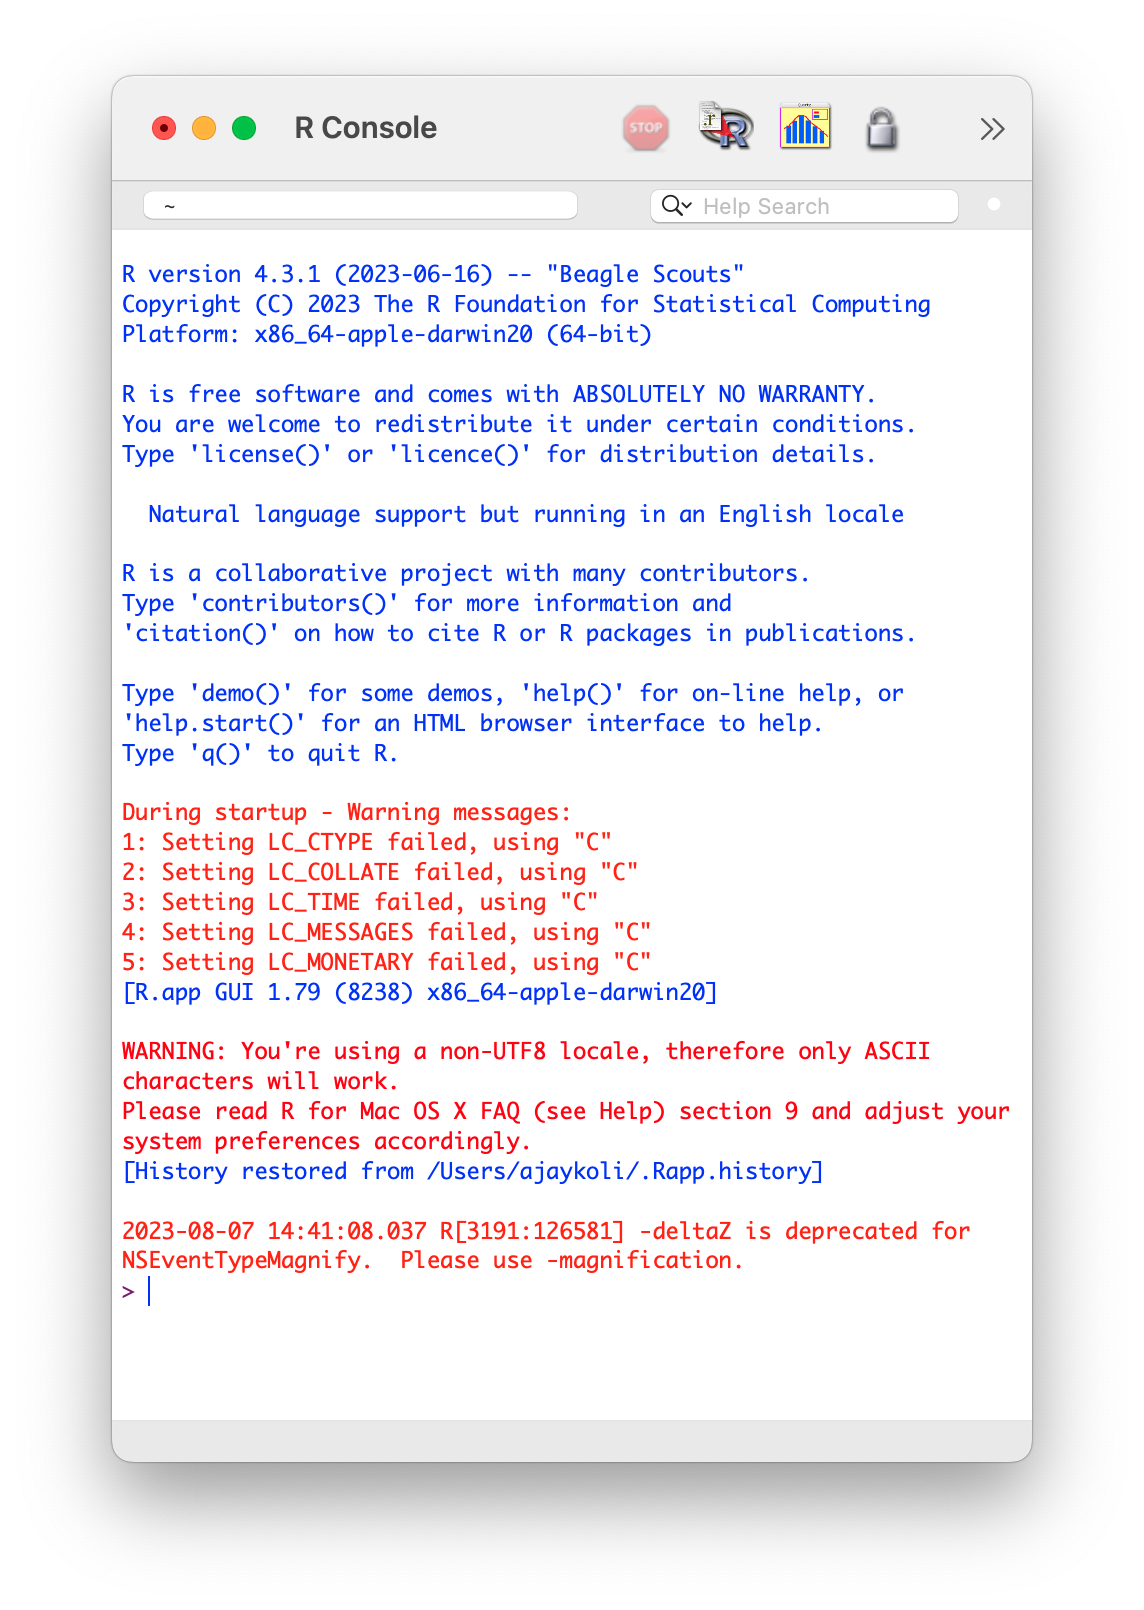
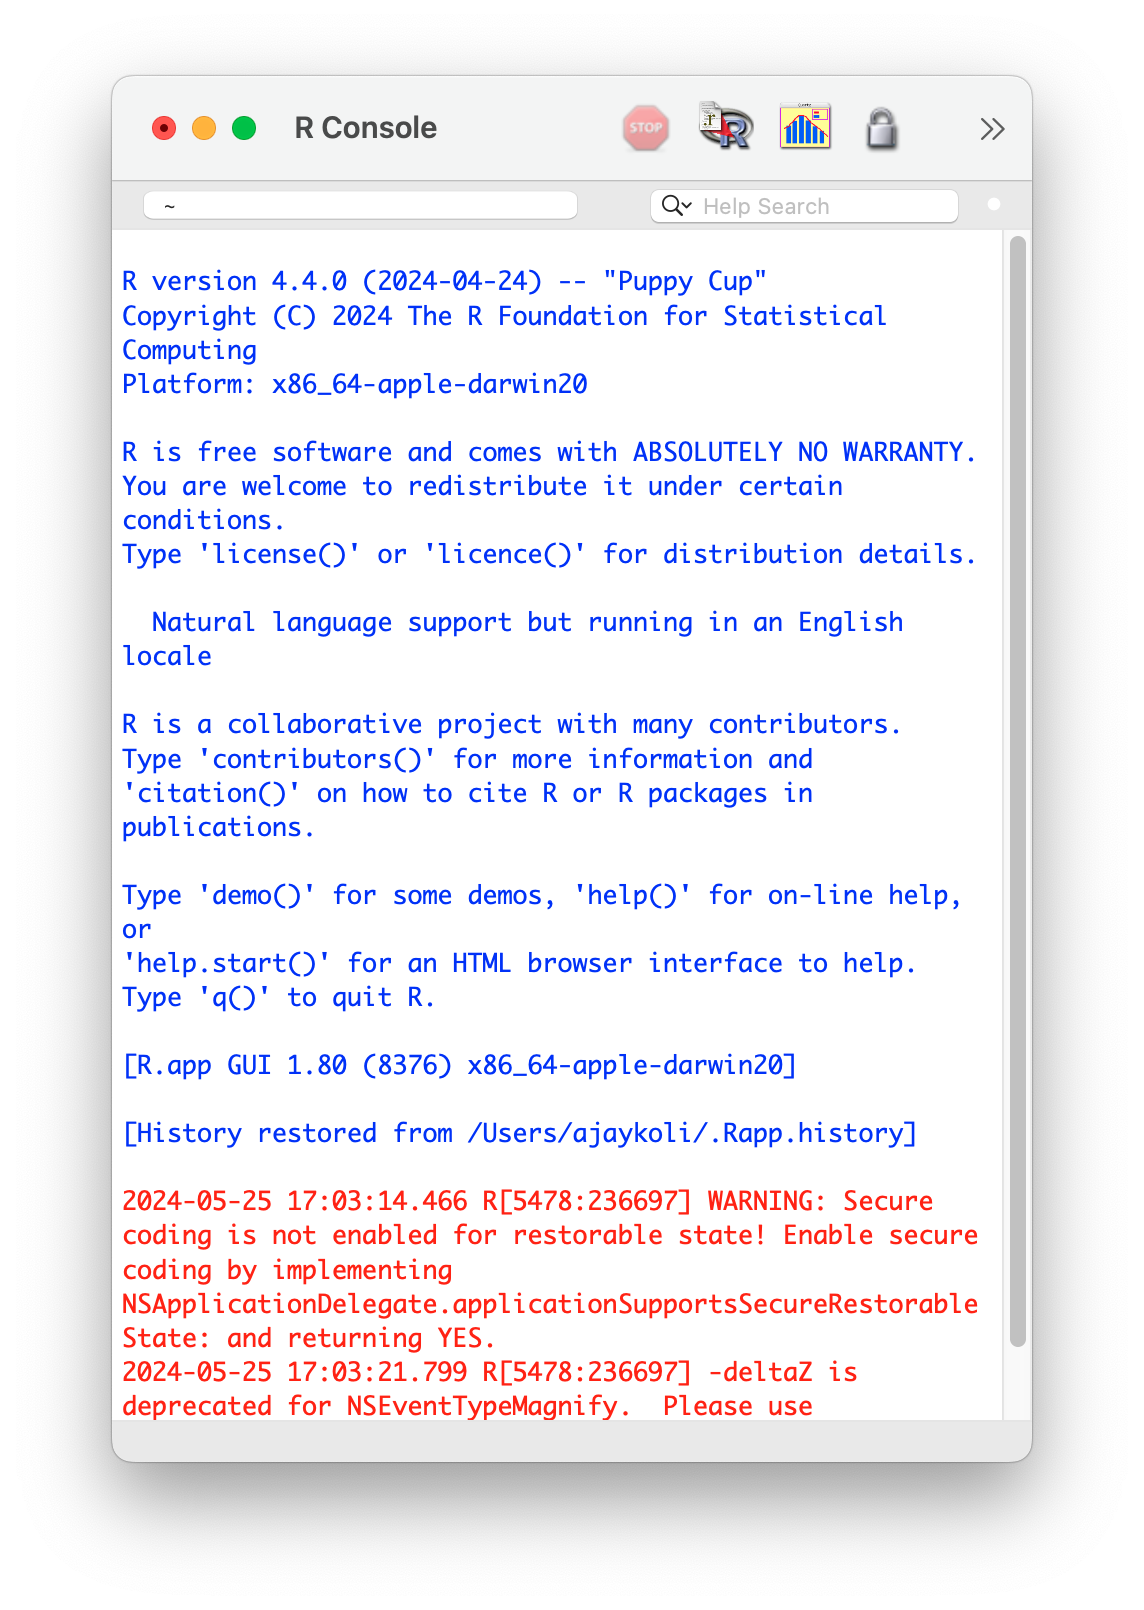
gju workshop

diff --git a/index.html b/index.html
@@ -12,7 +12,7 @@
 <link href="index_files/libs/quarto-contrib/fontawesome6-0.1.0/latex-fontsize.css" rel="stylesheet"><meta http-equiv="Content-Type" content="text/html; charset=UTF-8">
 <meta charset="utf-8">
 <meta name="generator" content="quarto-1.4.444">
-<title>SRM Slides</title>
+<title>GJU Slides</title>
 <meta name="apple-mobile-web-app-capable" content="yes">
 <meta name="apple-mobile-web-app-status-bar-style" content="black-translucent">
 <meta name="viewport" content="width=device-width, initial-scale=1.0, maximum-scale=1.0, user-scalable=no, minimal-ui">
@@ -393,7 +393,13 @@
 
 
 <section><section id="for-beginners" class="title-slide slide level1 center" data-background-image="images/title-front.jpg" data-background-size="cover"><h1><span class="r-fit-text right navy-blue"><i class="fa-brands fa-r-project fa-large" aria-label="r-project"></i> FOR<br>BEGINNERS</span></h1>
-<p><span class="r-fit-text">Dr.&nbsp;Ajay Kumar Koli, PhD <span class="math inline">\(\cdot\)</span> SRM University <span class="math inline">\(\cdot\)</span> 2 May 2024</span></p>
+<div class="columns center">
+<div class="column" style="width:45%;">
+
+</div><div class="column" style="width:55%;">
+<p><span class="r-fit-text right">Speaker: Dr.&nbsp;Ajay Kumar Koli, PhD | 28 May 2024.<br>Venue: The Department of Food Technology<br>Guru Jambheshwar University Science &amp; Technology, Hisar.</span></p>
+</div>
+</div>
 </section><section id="section" class="slide level2"><h2></h2>
 <p><span class="theme-cursive r-fit-text">Hello Everyone!!</span></p>
 <div class="columns">
@@ -403,7 +409,7 @@
 <p><br></p>
 <p><i class="fa-solid fa-circle-user" aria-label="circle-user"></i> <a href="https://koliajay.netlify.app/">Dr.&nbsp;Ajay Kumar Koli</a></p>
 <p><i class="fa-solid fa-award" aria-label="award"></i> Founder &amp; Executive Director</p>
-<p><i class="fa-solid fa-play" aria-label="play"></i> <a href="https://saraedu.netlify.app/">SARA Institute of Data Science</a></p>
+<p><i class="fa-solid fa-play" aria-label="play"></i> <a href="https://sara-edu.netlify.app/">SARA Institute of Data Science</a></p>
 <p><i class="fa-brands fa-twitter" aria-label="twitter"></i> <a href="https://twitter.com/sara_institute"><span class="citation" data-cites="sara_institute">@sara_institute</span></a></p>
 <p><i class="fa-brands fa-github" aria-label="github"></i> <a href="https://github.com/sara-edu/workshop-r-mdu.github.io">Slide source code</a></p>
 <a class="github-button" href="https://github.com/sara-edu/slides-r-course" data-icon="octicon-star" data-size="large" data-show-count="true" aria-label="Star this course on Github">Star This Course on Github</a><script async="" defer="" src="https://buttons.github.io/buttons.js"></script>
@@ -414,13 +420,13 @@
 <blockquote>
 <p>To share reasons with you (and hopefully convince you) why you should learn data science tools like R, python, GitHub, quarto etc.</p>
 </blockquote>
-</section><section id="when-we-work" class="slide level2 center"><h2>When we work</h2>
+</section><section id="section-1" class="slide level2 center"><h2></h2>
 
-<img data-src="images/researcher.jpg" class="quarto-figure-center r-stretch"><p><span class="r-fit-text">We <span class="theme-red">think</span> we look like this but …</span></p>
-</section><section id="while-working" class="slide level2 center"><h2>While working</h2>
-<p><span class="r-fit-text">Our <span class="theme-red">actual</span> look.</span></p>
+<img data-src="images/researcher.jpg" class="quarto-figure-center r-stretch"><p><span class="r-fit-text">Work, we <span class="theme-red">think.</span></span></p>
+</section><section id="section-2" class="slide level2 center"><h2></h2>
 
-<img data-src="images/researcher-sad.webp" class="quarto-figure-center r-stretch"></section><section id="work-flowchart" class="slide level2"><h2>🤯 Work Flowchart</h2>
+<img data-src="images/researcher-sad.webp" class="quarto-figure-center r-stretch"><p><span class="r-fit-text">Work, <span class="theme-red">actually.</span></span></p>
+</section><section id="work-flowchart" class="slide level2"><h2>🤯 Work Flowchart</h2>
 <div class="columns center">
 <div class="column" style="width:25%;">
 <p>MS Word</p>
@@ -442,18 +448,6 @@
 <li><p>Reference management</p></li>
 </ul>
 </div>
-</div>
-</div>
-</section><section id="work-influencer" class="slide level2"><h2>Work Influencer</h2>
-<p><br></p>
-<div class="columns">
-<div class="column" style="width:50%;">
-<p><img data-src="https://media2.giphy.com/media/uudzUtVcsLAoo/giphy.gif?cid=ecf05e47fkaog688v6ft2g7rjkhz2oficp1uf3puupiag8ox&amp;ep=v1_gifs_search&amp;rid=giphy.gif&amp;ct=g" style="width:100.0%"></p>
-</div><div class="column" style="width:50%;">
-<p><br></p>
-<p><span class="r-fit-text">👀 Focus on Content.</span></p>
-<p><br></p>
-<p><span class="r-fit-text">💅 Set Yourself Apart.</span></p>
 </div>
 </div>
 </section><section id="data-science" class="slide level2"><h2>Data Science</h2>
@@ -506,7 +500,7 @@
 
 <aside><div>
 <p><span class="small">Background image by <a href="https://unsplash.com/@kolamdigital">Andy Hermawan</a></span></p>
-</div></aside></section><section><section id="section-1" class="title-slide slide level1 inverse center" data-background-image="images/exploder.gif" data-background-position="center" data-background-size="contain"><h1></h1>
+</div></aside></section><section><section id="section-3" class="title-slide slide level1 inverse center" data-background-image="images/exploder.gif" data-background-position="center" data-background-size="contain"><h1></h1>
 <p><br><br><br><br><br><br><br><br><br><br><br><br><br></p>
 
 <aside><div>
@@ -548,8 +542,8 @@
 <div class="column" style="width:50%;">
 <p><br></p>
 <ul>
-<li class="fragment"><p>R version 4.3.1 (2023-06-16)</p></li>
-<li class="fragment"><p>R name “Beagle Scouts”</p></li>
+<li class="fragment"><p>R version 4.4.0 (2024-04-24)</p></li>
+<li class="fragment"><p>R name “Puppy Cup”</p></li>
 <li class="fragment"><p>R licence “ABSOLUTELY NO WARRANTY”</p></li>
 <li class="fragment"><p>R prompt <code>&gt;|</code></p></li>
 </ul>
@@ -573,7 +567,7 @@
 
 <aside><div>
 <p><span class="small"><a href="https://www.r-bloggers.com/2017/04/using-r-dont-save-your-workspace/">Source: R Bloggers</a></span></p>
-</div></aside></section></section><section><section id="section-2" class="title-slide slide level1 inverse center"><h1></h1>
+</div></aside></section></section><section><section id="section-4" class="title-slide slide level1 inverse center"><h1></h1>
 <p><span class="r-fit-text">OPERATORS</span></p>
 </section><section id="operators" class="slide level2"><h2>Operators</h2>
 <blockquote>
@@ -863,10 +857,10 @@
 <li><p>work efficiently with my different projects and save, share and track them.</p></li>
 </ul>
 </div>
-</section><section id="section-3" class="slide level2 center" data-background-color="#000000" data-transition="zoom" data-transition-speed="slow"><h2></h2>
+</section><section id="section-5" class="slide level2 center" data-background-color="#000000" data-transition="zoom" data-transition-speed="slow"><h2></h2>
 <p><span class="r-fit-text">🔥 WE NEED A SUPERHERO 🔥</span></p>
 
-<img data-src="https://media3.giphy.com/media/o6FWop1Gbuyly/giphy.gif?cid=ecf05e474i92dhzes35zr0jtervmdixne1moeehvvtnntmm8&amp;ep=v1_gifs_related&amp;rid=giphy.gif&amp;ct=g" class="quarto-figure-center r-stretch"></section></section><section><section id="section-4" class="title-slide slide level1 inverse center"><h1></h1>
+<img data-src="https://media3.giphy.com/media/o6FWop1Gbuyly/giphy.gif?cid=ecf05e474i92dhzes35zr0jtervmdixne1moeehvvtnntmm8&amp;ep=v1_gifs_related&amp;rid=giphy.gif&amp;ct=g" class="quarto-figure-center r-stretch"></section></section><section><section id="section-6" class="title-slide slide level1 inverse center"><h1></h1>
 <p><img data-src="images/logo-rstd.png" height="150"></p>
 <p><span class="r-fit-text"><span class="rainbow-orange">S</span> <span class="rainbow-yellow">T</span> <span class="rainbow-green">U</span> <span class="rainbow-indigo">D</span> <span class="rainbow-red">I</span> <span class="rainbow-purple">O</span></span></p>
 </section><section id="posit-earlier-rstudio" class="slide level2"><h2>posit, earlier RStudio</h2>
@@ -910,7 +904,7 @@
 <p><span class="theme-blue"><i class="fa-solid fa-car fa-7x" aria-label="car"></i></span></p>
 </div>
 </div>
-</section></section><section><section id="section-5" class="title-slide slide level1 inverse center"><h1></h1>
+</section></section><section><section id="section-7" class="title-slide slide level1 inverse center"><h1></h1>
 
 <img data-src="images/project-logo.png" class="r-stretch"><p><span class="r-fit-text">PROJECT</span></p>
 </section><section id="open-rstudio" class="slide level2 center"><h2>Open RStudio</h2>
@@ -937,7 +931,7 @@
 
 <aside><div>
 <p><span class="small">Source: <a href="https://support.rstudio.com/hc/en-us/articles/200526207-Using-Projects">RStudio</a> &amp; Artwork by <a href="https://www.allisonhorst.com/">Allison Horst</a></span></p>
-</div></aside></section><section id="section-6" class="slide level2" data-background-color="#000"><h2></h2>
+</div></aside></section><section id="section-8" class="slide level2" data-background-color="#000"><h2></h2>
 <p><span class="r-fit-text center">⛷ Create <br> RStudio Project <br> in 4 Steps ⛷</span></p>
 </section><section id="create-rstudio-project" class="slide level2 center"><h2>Create RStudio Project</h2>
 
@@ -961,7 +955,7 @@
 
 <img data-src="images/rstd_proj_path1.png" class="r-stretch"></section><section id="rstudio-project" class="slide level2 center"><h2>RStudio Project</h2>
 
-<img data-src="images/rstd_proj_path2.png" class="r-stretch"></section></section><section><section id="section-7" class="title-slide slide level1 inverse center"><h1></h1>
+<img data-src="images/rstd_proj_path2.png" class="r-stretch"></section></section><section><section id="section-9" class="title-slide slide level1 inverse center"><h1></h1>
 
 <img data-src="images/code_hero.gif" class="r-stretch"><div class="{aside}">
 <p><span class="small"><span class="small">Artwork by <a href="https://allisonhorst.com/">Alision Horst</a></span></span></p>
@@ -1007,7 +1001,7 @@
 
 <aside><div>
 <p><span class="small">Source: <a href="https://bookdown.org/marius_mather/Rad/tips-for-effective-r-programming.html">Marius Mather</a> also <a href="https://tomaztsql.wordpress.com/2023/01/31/tips-for-organising-your-r-code/">Tomaž Kaštrun</a></span></p>
-</div></aside></section></section><section><section id="section-8" class="title-slide slide level1 inverse center"><h1></h1>
+</div></aside></section></section><section><section id="section-10" class="title-slide slide level1 inverse center"><h1></h1>
 
 <img data-src="images/rainbowr.gif" class="quarto-figure-center r-stretch"><p><span class="r-fit-text center">FUNCTION</span></p>
 <div class="{aside}">
@@ -1130,7 +1124,7 @@
 </div>
 </div>
 </div>
-</section></section><section><section id="section-9" class="title-slide slide level1 inverse center"><h1></h1>
+</section></section><section><section id="section-11" class="title-slide slide level1 inverse center"><h1></h1>
 
 <img data-src="images/stormyr.gif" class="quarto-figure-center r-stretch"><p><span class="r-fit-text center">COMMENT</span></p>
 <div class="{aside}">
@@ -1144,7 +1138,7 @@
 
 <aside><div>
 <p><span class="small"><a href="https://en.wikipedia.org/wiki/Comment_computer_programming">Source: Wikipedia</a></span></p>
-</div></aside></section></section><section><section id="section-10" class="title-slide slide level1 inverse center"><h1></h1>
+</div></aside></section></section><section><section id="section-12" class="title-slide slide level1 inverse center"><h1></h1>
 
 <img data-src="images/pkgs-space.png" class="quarto-figure-center r-stretch"><p><span class="r-fit-text">PACKAGES</span></p>
 </section><section id="r-packages" class="slide level2" data-background-image="https://miro.medium.com/v2/resize:fit:732/1*qVn_OyvyHA6AG2gaQkTXfA.png" data-background-opacity="0.15" data-background-size="contain" data-background-position="right"><h2>R Packages</h2>
@@ -1192,7 +1186,7 @@
 
 <img data-src="images/update-pkg3.png" class="r-stretch"></section><section id="to-remove-packages" class="slide level2 center"><h2>To Remove Packages</h2>
 
-<img data-src="images/remove-pkg.png" class="r-stretch"></section></section><section><section id="section-11" class="title-slide slide level1 inverse center"><h1></h1>
+<img data-src="images/remove-pkg.png" class="r-stretch"></section></section><section><section id="section-13" class="title-slide slide level1 inverse center"><h1></h1>
 
 <img data-src="images/heartyr.gif" class="quarto-figure-center r-stretch"><p><span class="r-fit-text">OBJECTS</span></p>
 <div class="{aside}">
@@ -1407,7 +1401,7 @@
 </div>
 </div>
 </div>
-</section></section><section><section id="section-12" class="title-slide slide level1 inverse center"><h1></h1>
+</section></section><section><section id="section-14" class="title-slide slide level1 inverse center"><h1></h1>
 
 <img data-src="images/breakr.gif" class="quarto-figure-center r-stretch"><p><span class="r-fit-text">COMMUNITY</span></p>
 <div class="{aside}">
@@ -1456,7 +1450,7 @@
 <li><p>R packages for data science <a href="https://www.tidyverse.org/" class="uri">https://www.tidyverse.org/</a></p></li>
 </ul>
 </div>
-</section></section><section id="section-13" class="title-slide slide level1 center" data-background-image="https://images.unsplash.com/photo-1553379762-ff913d5513b5?q=80&amp;w=2070&amp;auto=format&amp;fit=crop&amp;ixlib=rb-4.0.3&amp;ixid=M3wxMjA3fDB8MHxwaG90by1wYWdlfHx8fGVufDB8fHx8fA%3D%3D" data-background-size="cover"><h1></h1>
+</section></section><section id="section-15" class="title-slide slide level1 center" data-background-image="https://images.unsplash.com/photo-1553379762-ff913d5513b5?q=80&amp;w=2070&amp;auto=format&amp;fit=crop&amp;ixlib=rb-4.0.3&amp;ixid=M3wxMjA3fDB8MHxwaG90by1wYWdlfHx8fGVufDB8fHx8fA%3D%3D" data-background-size="cover"><h1></h1>
 <div class="columns">
 <div class="column" style="width:70%;">
 <p><span class="r-fit-text theme-cursive theme-navy-blue left">Thank<br>You</span></p>

diff --git a/sara-style.scss b/sara-style.scss
@@ -1,0 +1,176 @@
+/*-- scss:defaults --*/
+
+// most of the color combinations are adapted from the slides of dear Allison Hill.
+
+// font style for the headings.
+@import url('https://fonts.googleapis.com/css2?family=Libre+Baskerville&display=swap');
+
+// font style for the body text of the slides.
+@import url('https://fonts.googleapis.com/css?family=Sen&display=swap');
+
+// cursive font style.
+@import url('https://fonts.googleapis.com/css2?family=Crimson+Text:ital@0;1&family=Sail&display=swap');
+
+
+// define color variables.
+$theme-navy-blue: #003366;
+$theme-gray:      #282a36;
+$theme-red:       #E7553C; 
+$theme-white:     #ffffff;
+$theme-light-blue: #A3D3FC;
+$theme-blue:      #76AADB;
+$theme-green: #2a9d8f;
+
+
+$presentation-heading-font: 'Libre Baskerville', 'serif';
+$presentation-heading-color: $theme-navy-blue;
+$presentation-h2-font-size: 2.0em;
+
+// body style.
+$font-family-sans-serif: "Sen", "sans-serif";
+//$mainFontSize: 35px;
+$presentation-font-size-root: 30px;
+$body-color: $theme-gray;
+$body-bg: $theme-white;
+
+
+// link style.
+$link-color: $theme-red;
+$link-color-hover: lighten($link-color, 15%);
+$selection-bg: #007AF8;
+
+
+// code chunk box style.
+//$code-block-border-color: lighten($navy-blue, 20%);
+$code-block-font-size: 1em;
+$code-color: $theme-red;
+$code-bg: #fff;
+$code-block-bg: #fff;
+
+
+/*-- scss:rules --*/
+
+.theme-gray {
+  color: #808080;
+}
+
+.theme-red {
+  color: $theme-red;
+}
+
+.theme-blue {
+  color: #219ebc;
+}
+
+.theme-green {
+  color: #31572c;
+}
+
+.theme-navy-blue {
+  color: $theme-navy-blue;
+}
+
+.theme-white {
+  color: $theme-white;
+}
+
+
+.theme-hello {
+  font-family: 'Sail';
+}
+
+
+.right {
+  text-align: right;
+}
+
+.centering {
+  text-align: center;
+}
+
+.small {
+  font-size: 0.5em;
+}
+
+
+// underline the link.
+.reveal .slide a {
+  text-decoration: underline;
+}
+
+
+// to increase space between code block and code output
+.reveal div.sourceCode {
+    margin-bottom: 20px !important;
+}
+
+
+// shade around the code chunk box.
+.reveal div.sourceCode {
+  box-shadow: 0 15px 30px rgba($theme-blue, 0.8);
+}
+
+
+// your turn exercise slide style.
+.your-turn {
+  color: #fff;
+  h1, h2, h3 {
+    color: #fff;
+    font-size: 2.5em;
+  }
+
+  a {
+    color: #f1fa8c;
+  }
+  
+  a:hover {
+    color: #d8e17e;
+  }
+  
+  .slide-background-content {
+    background-color: #447099;
+  }
+  
+}
+
+
+// inverse.
+.inverse {
+  color: #fff;
+  h1 {
+    color: #fff;
+    font-size: 3em;
+    text-align: center;
+  }
+  
+  a {
+    color: #bed3ec;
+  }
+  
+  a:hover {
+    color: #bed3ec;
+  }
+  
+  .slide-background-content {
+    background-color: #282a36;
+  }
+  
+}
+
+// this idea of rainbow color is borrowed from Emil's slides link https://github.com/EmilHvitfeldt/talk-nyr-slidecraft/blob/main/styles.scss
+
+.rainbow-red {color: #FF0002;}
+.rainbow-orange {color: #FF7800;}
+.rainbow-yellow {color: #FFFD0A;}
+.rainbow-green {color: #10DD15;}
+.rainbow-blue {color: #3050FF;}
+.rainbow-indigo {color: #7B20A3;}
+.rainbow-purple {color: #D501FA;}
+
+
+
+
+
+
+
+
